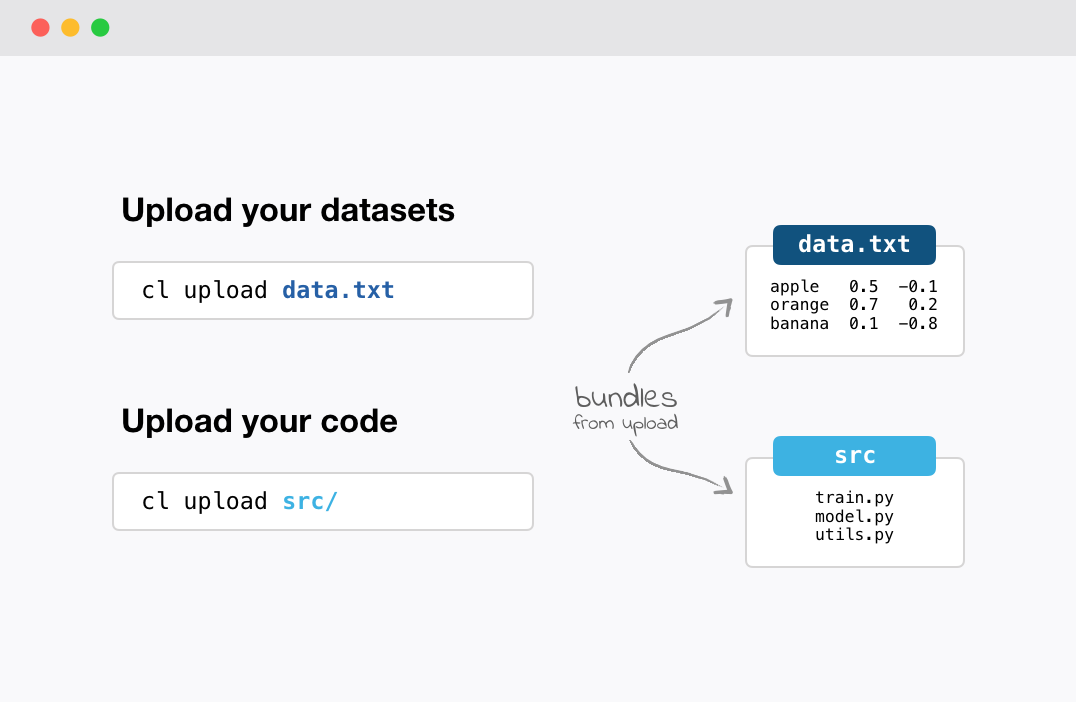
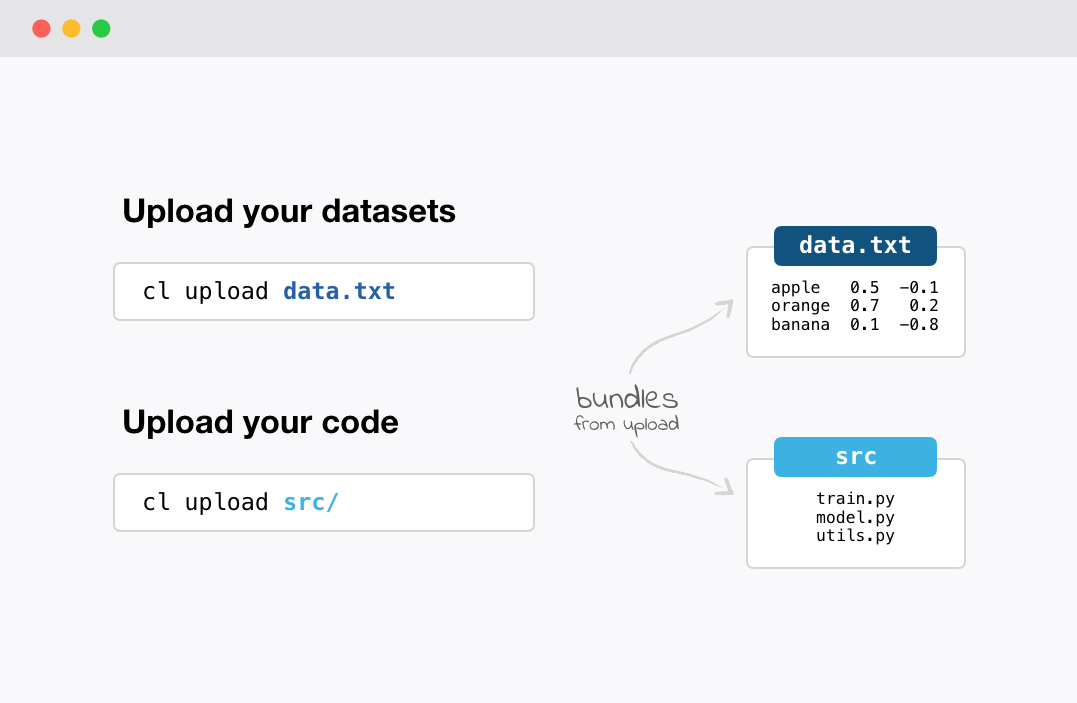
Graphics and font changes

diff --git a/frontend/src/components/HomePage.js b/frontend/src/components/HomePage.js
@@ -9,9 +9,9 @@ import TableCell from '@material-ui/core/TableCell';
 import TableRow from '@material-ui/core/TableRow';
 import ResponsiveEmbed from 'react-responsive-embed';
 
-import UploadIcon from '@material-ui/icons/CloudUpload'; // insert_chart, cloud upload
-import ExperimentIcon from '@material-ui/icons/InsertChart'; // extension, barchart, score
-import PublishIcon from '@material-ui/icons/Public'; // share, public
+import UploadIcon from '@material-ui/icons/CloudUploadOutlined'; // insert_chart, cloud upload
+import ExperimentIcon from '@material-ui/icons/InsertChartOutlined'; // extension, barchart, score
+import PublishIcon from '@material-ui/icons/PublicOutlined'; // share, public
 
 const kSidePadding = 32;
 const kSpacerPadding = 24;
@@ -106,59 +106,61 @@ class HomePage extends React.Component<{
                         {/** Summary. */}
                         <Grid item xs={12} className={classNames(classes.textBox, classes.spacer)}>
                             <Typography variant='h5' color='textSecondary' textAlign='center'>
-                                Run your machine learning jobs in the cloud. Manage your experiments
-                                in a digital lab notebook. Publish so other researchers can
+                                Run your machine learning experiments in the cloud. Manage them in a
+                                digital lab notebook. Publish them so other researchers can
                                 reproduce your results.
                             </Typography>
                         </Grid>
 
-                        <Grid item xs={12} sm={6} className={classes.textBox}>
-                            <UploadIcon />
-                            <Typography variant='h6'>Upload</Typography>
+                        <Grid item xs={12} sm={5} className={classes.textBox} container alignContent='center'>
+                            <div className={classes.titleBox}>
+                                <UploadIcon className={classes.titleIcon}/>
+                                <Typography variant='h6' inline>Upload</Typography>
+                            </div>
                             <Typography>
                                 Upload code (in any programming language) and datasets (in any
-                                format) so you can run jobs in the cloud. Unlike other platforms,
-                                there are virtually no constraints on how you structure your code
-                                and datasets, so you can feel free to use it for all your crazy
-                                research projects!
+                                format) as bundles. There are no constraints on how you structure
+                                your bundles.
                             </Typography>
                         </Grid>
-                        <Grid item xs={12} sm={6} className={classes.textBox}>
+                        <Grid item xs={12} sm={7} className={classes.textBox}>
                             <img
                                 src={`${process.env.PUBLIC_URL}/img/summary1.png`}
                                 className={classes.summaryImg}
                             />
                         </Grid>
 
-                        <Grid item xs={12} sm={6} className={classes.textBox}>
-                            <ExperimentIcon />
-                            <Typography variant='h6'>Experiment</Typography>
+                        <Grid item xs={12} sm={5} className={classes.textBox} container alignContent='center'>
+                            <div className={classes.titleBox}>
+                                <ExperimentIcon className={classes.titleIcon}/>
+                                <Typography variant='h6' inline>Experiment</Typography>
+                            </div>
                             <Typography>
-                                Execute your code in the cloud by explicitly specifying your
-                                dependencies, the Docker execution environment, and hardware
-                                requirements. This information is captured along with the results of
-                                a single run to form a bundle.
+                                Run your code in the cloud by specifying an arbitrary command along
+                                with your bundle dependencies, a Docker execution environment, and
+                                resource requirements. The output of the run becomes a new bundle.
                             </Typography>
                         </Grid>
-                        <Grid item xs={12} sm={6} className={classes.textBox}>
+                        <Grid item xs={12} sm={7} className={classes.textBox}>
                             <img
                                 src={`${process.env.PUBLIC_URL}/img/summary2.png`}
                                 className={classes.summaryImg}
                             />
                         </Grid>
 
-                        <Grid item xs={12} sm={6} className={classes.textBox}>
-                            <PublishIcon />
-                            <Typography variant='h6'>Publish</Typography>
+                        <Grid item xs={12} sm={5} className={classes.textBox} container alignContent='center'>
+                            <div className={classes.titleBox}>
+                                <PublishIcon className={classes.titleIcon}/>
+                                <Typography variant='h6' inline>Publish</Typography>
+                            </div>
                             <Typography>
-                                Organize your experiments in a worksheet (like a digital lab
-                                notebook) using a extended version of Markdown. You can set up
-                                custom tables and graphs that are automatically populated with data
-                                from your runs. When you're ready, just make the worksheet public
-                                and share your results with the world!
+                                Organize your experiments in a worksheet (a digital lab notebook)
+                                using an extended version of Markdown. You can set up custom tables
+                                and graphs that are automatically populated with the output of your
+                                runs. Share the worksheet with the world!
                             </Typography>
                         </Grid>
-                        <Grid item xs={12} sm={6} className={classes.textBox}>
+                        <Grid item xs={12} sm={7} className={classes.textBox}>
                             <img
                                 src={`${process.env.PUBLIC_URL}/img/summary3.png`}
                                 className={classes.summaryImg}
@@ -296,7 +298,7 @@ const styles = (theme) => ({
         padding: `${kSpacerPadding}px ${kSidePadding}px`,
     },
     splash: {
-        backgroundImage: `url(${process.env.PUBLIC_URL}/img/splash1.png)`,
+        backgroundImage: `url(${process.env.PUBLIC_URL}/img/splash.png)`,
         backgroundSize: 'cover',
         minHeight: 300,
     },
@@ -316,6 +318,14 @@ const styles = (theme) => ({
     },
     textBox: {
         padding: '8px',
+        verticalAlign: 'middle',
+    },
+    titleBox: {
+        display: 'flex',
+        alignItems: 'center',
+    },
+    titleIcon: {
+        marginRight: 10,
     },
     spacer: {
         paddingTop: `${kSpacerPadding}px`,

diff --git a/frontend/public/css/imports.css b/frontend/public/css/imports.css
@@ -48,7 +48,7 @@ abbr[title] {
 }
 b,
 strong {
-  font-weight: bold;
+  font-weight: 500;
 }
 dfn {
   font-style: italic;
@@ -982,8 +982,8 @@ h6,
 .h4,
 .h5,
 .h6 {
-  font-family: 'Segoe UI';
-  font-weight: 200;
+  font-family: 'Roboto';
+  font-weight: 500;
   line-height: 1.2;
   color: inherit;
 }
@@ -6443,7 +6443,7 @@ body.ws-interface > .container {
 .page-header {
   margin: 0 0 20px;
   border: none;
-  background: url('../img/splash1.png') repeat-x top left;
+  background: url('../img/splash.png') repeat-x top left;
   min-height: 80px;
   color: white;
 }
@@ -6953,9 +6953,9 @@ body,
   text-indent: 0;
   margin: 0;
   font-size: 28px;
-  font-weight: bold;
+  font-weight: 500;
   line-height: 1.1em;
-  padding: 20px 0 20px 15px;
+  padding-top: 40px;
   min-height: 60px;
 }
 #worksheet_content .worksheet-name {
@@ -7478,7 +7478,7 @@ fieldset[disabled] #worksheet_content .header-row .controls .edit-features .btn-
 #worksheet_content .type-table table > thead > tr > th,
 #worksheet_content .type-record table > thead > tr > th,
 #worksheet_content .type-search table > thead > tr > th {
-  font-weight: bold;
+  font-weight: 500;
   color: #666;
 }
 #worksheet_content .type-table table.focused,

diff --git a/frontend/public/css/overrides.css b/frontend/public/css/overrides.css
@@ -2,7 +2,7 @@ html {
     font-size: 16px;
 }
 body {
-    font-family: 'Roboto', 'Segoe UI', 'Segoe', 'Helvetica Neue', sans-serif;
+    font-family: 'Roboto', 'Helvetica Neue', sans-serif;
     font-weight: normal;
     line-height: 1.6;
     color: #666;
